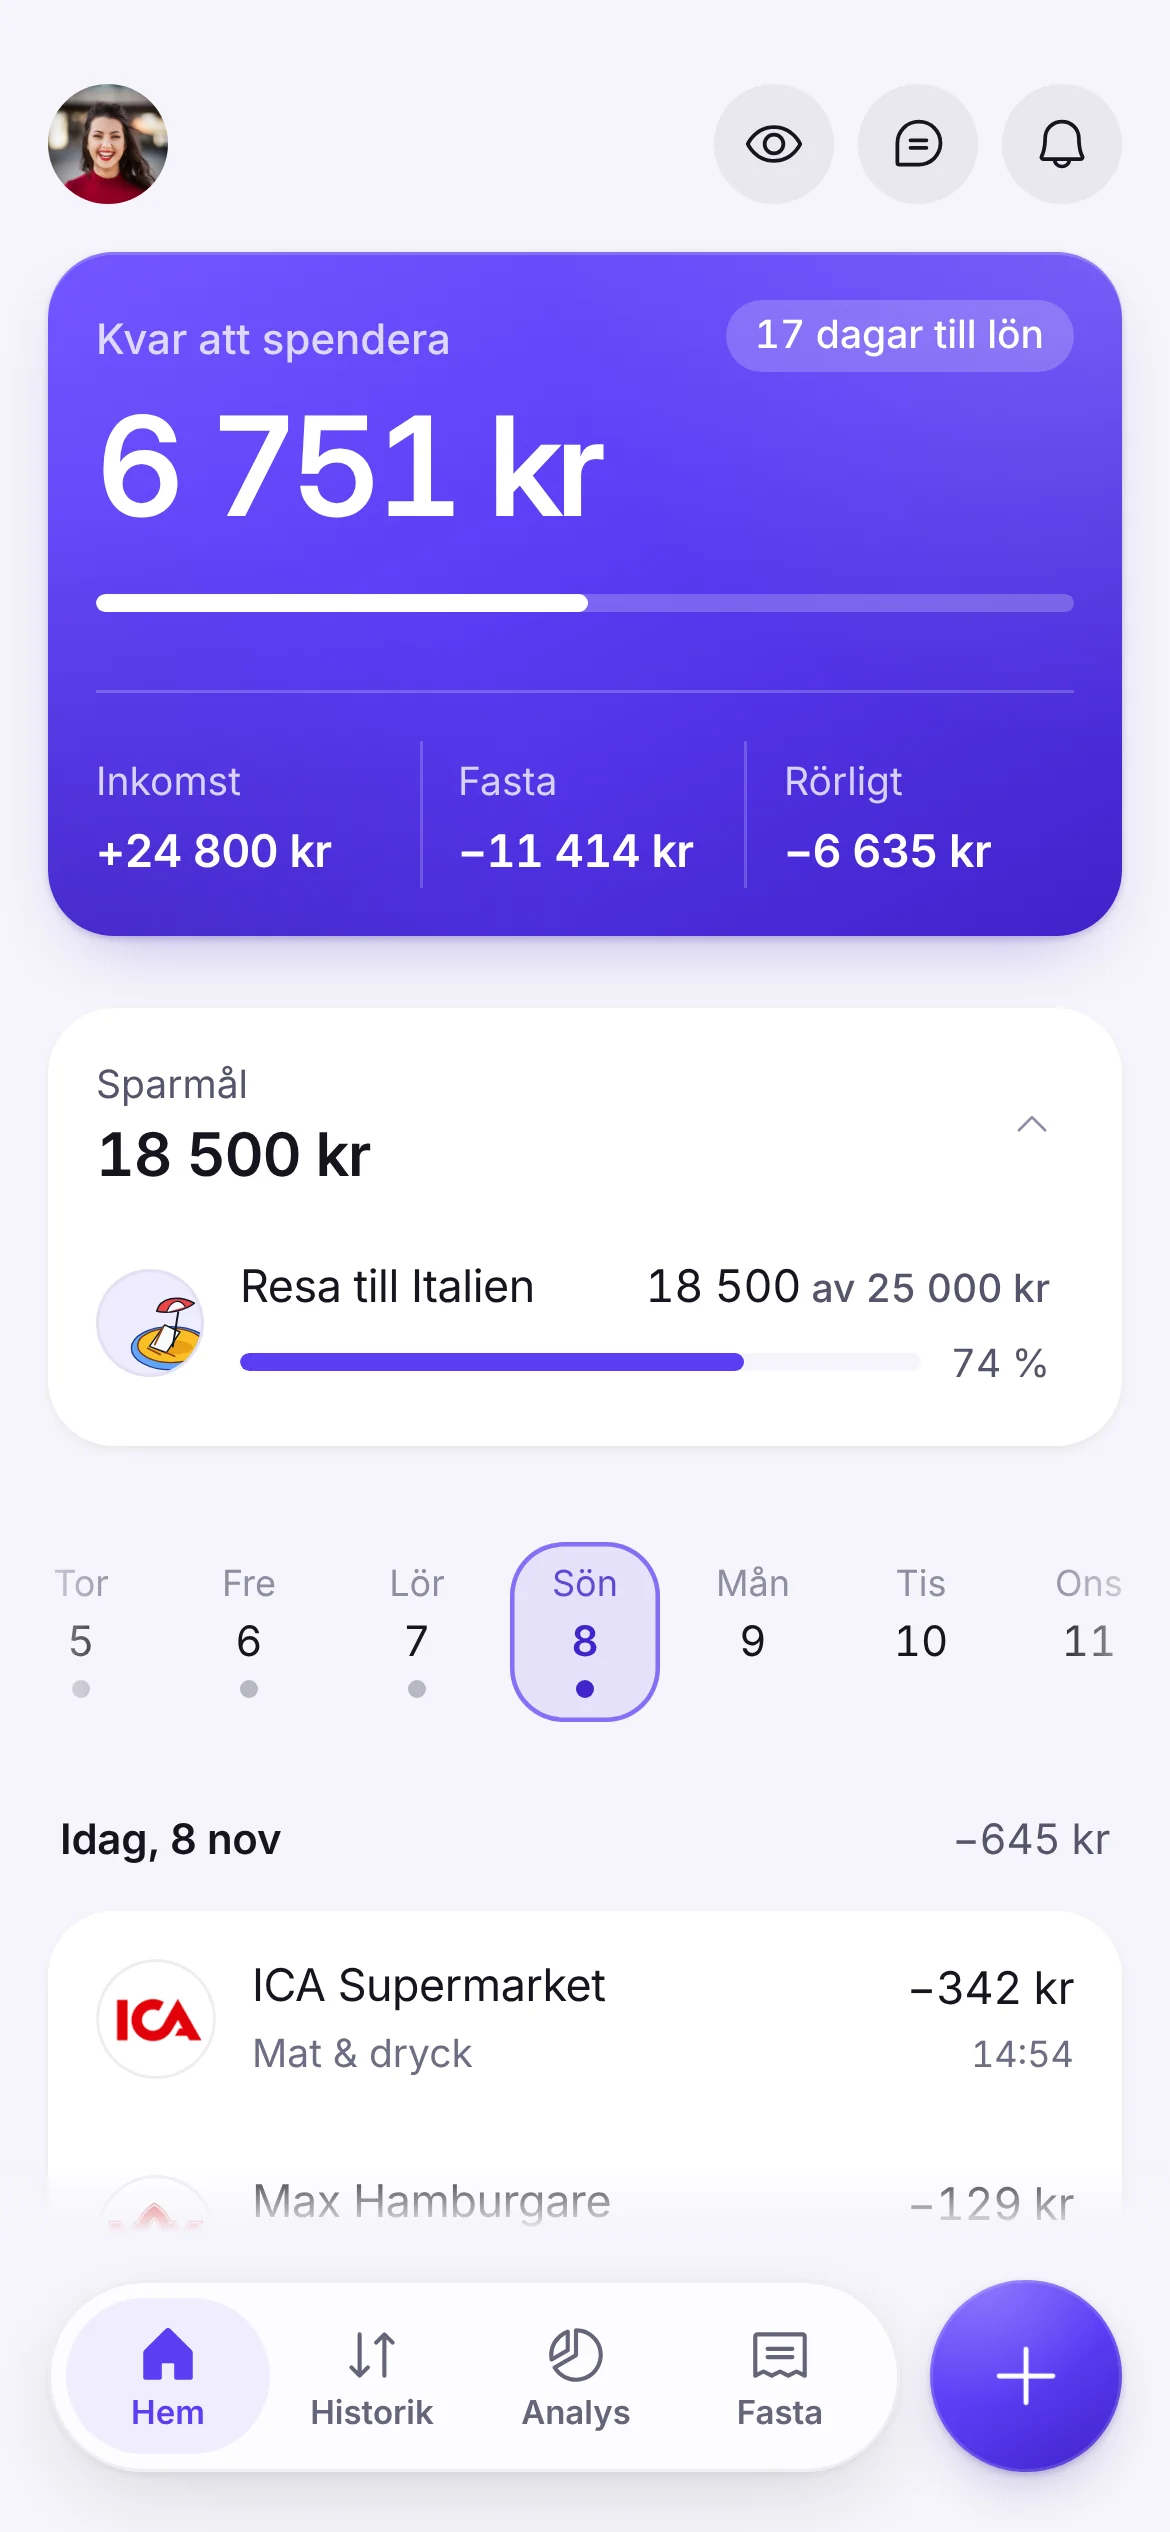
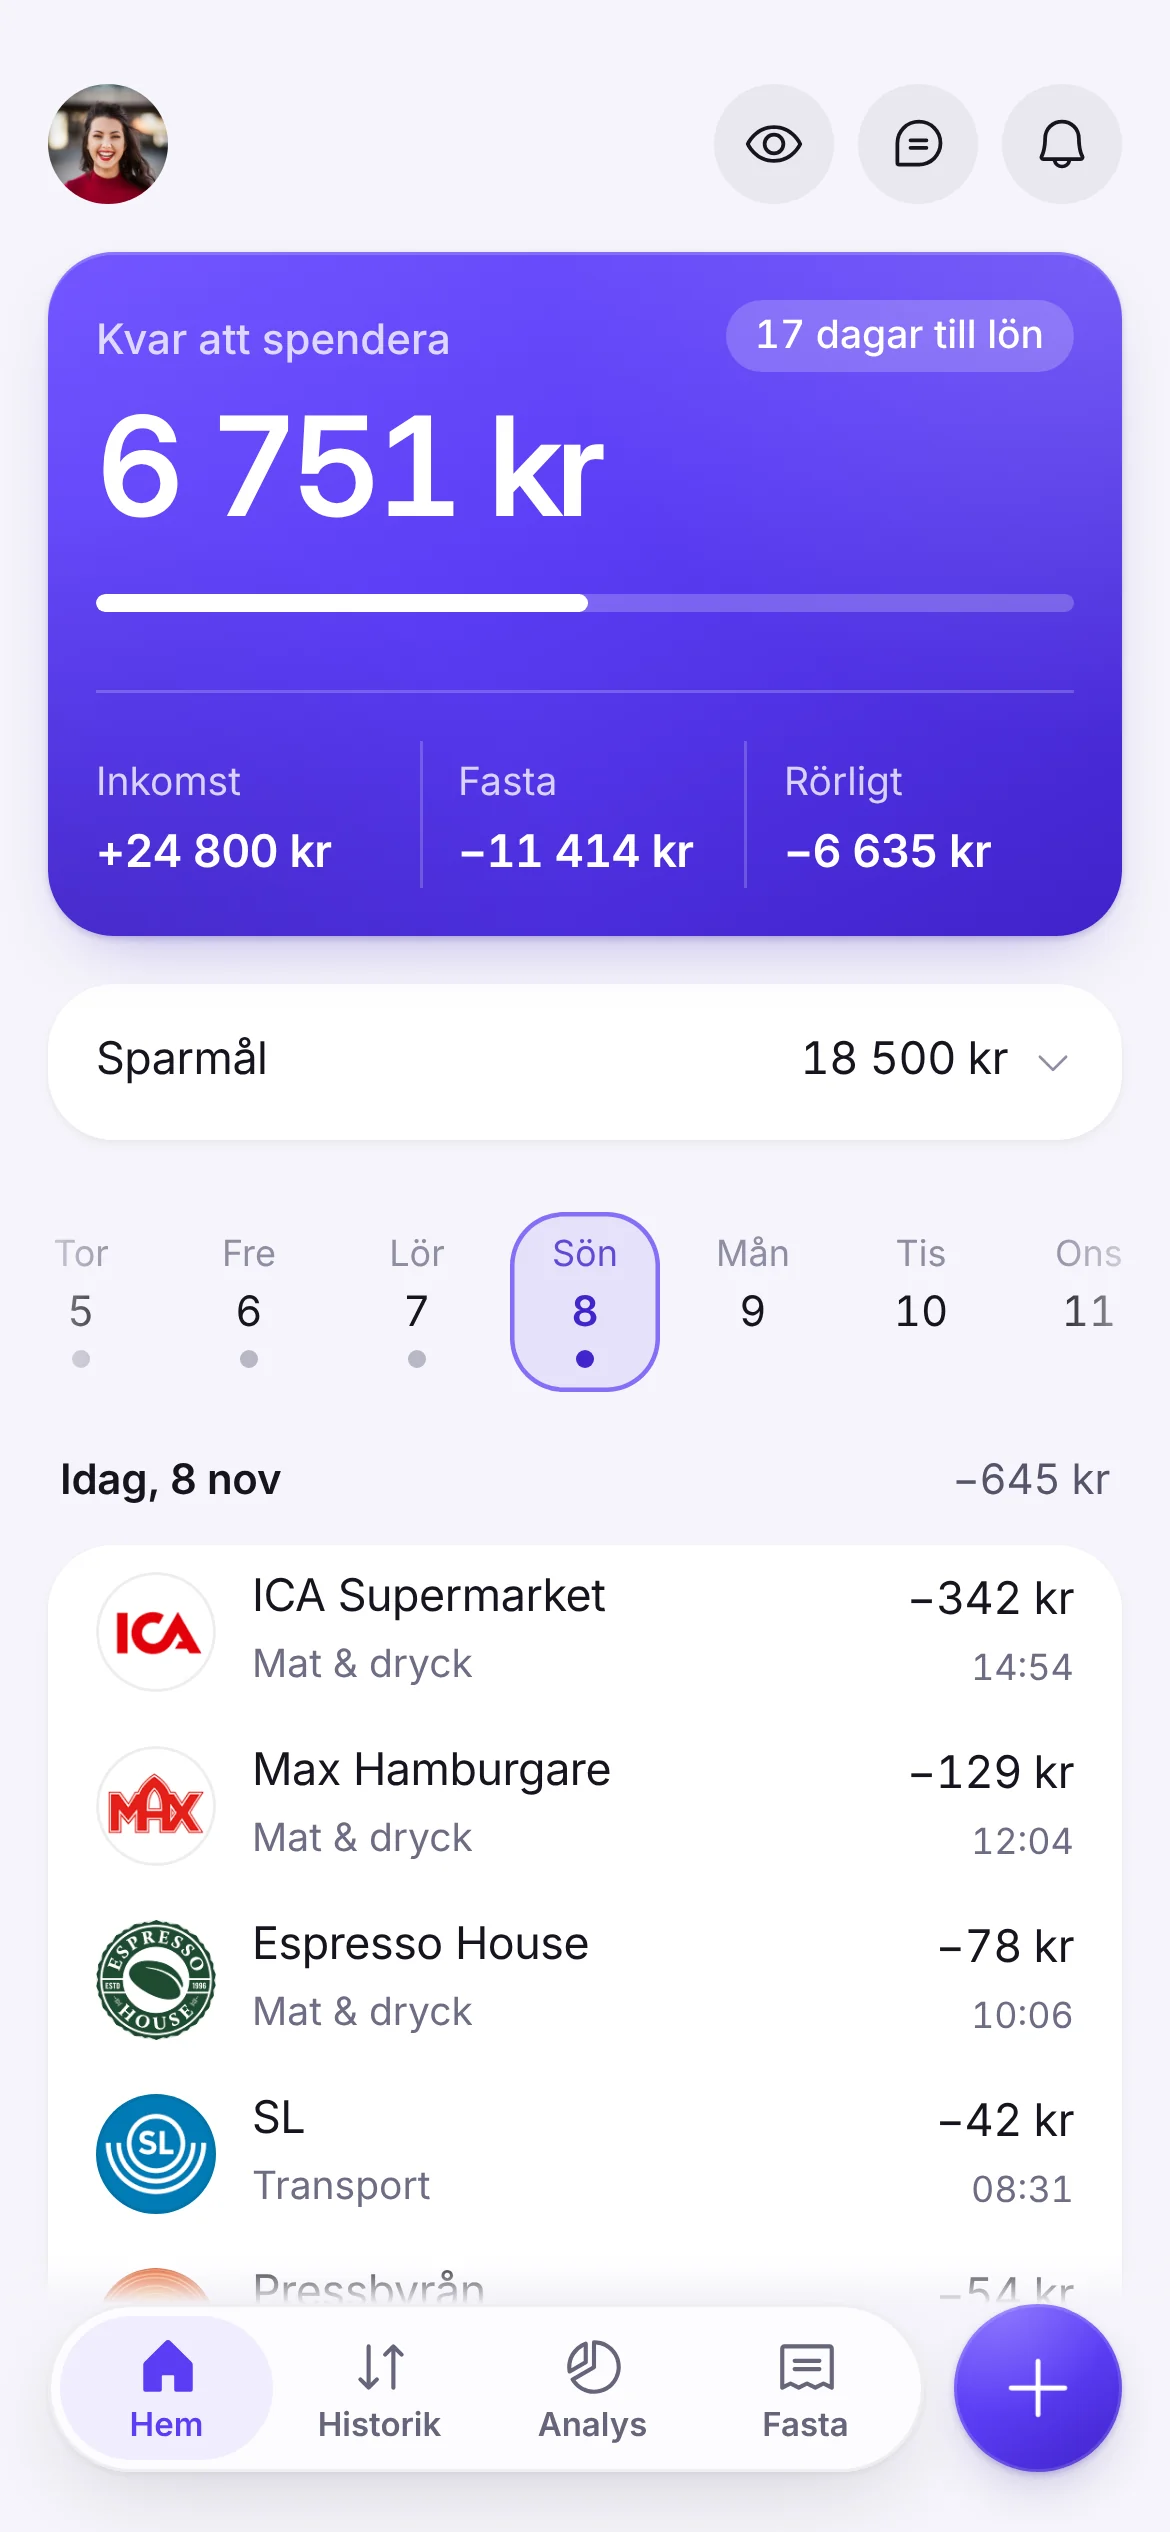
Nya startsidesbilder med kompakt layout (v=17)
Claude-Session: https://claude.ai/code/session_01CR7aiKdYh1B1e6r2HDSdML

diff --git a/src/components/WaitlistLanding.tsx b/src/components/WaitlistLanding.tsx
@@ -79,19 +79,19 @@ const PhoneFrame: React.FC<{
 
 const STEPS = [
   {
-    src: '/screens/ekonomi.webp?v=16',
+    src: '/screens/ekonomi.webp?v=17',
     alt: 'Dejz – inkomster och fasta utgifter',
     title: 'Lägg in lön och räkningar',
     text: 'Tar under två minuter. Dejz drar av räkningarna som är kvar före lön.',
   },
   {
-    src: '/screens/historik.webp?v=16',
+    src: '/screens/historik.webp?v=17',
     alt: 'Dejz – historik över köp',
     title: 'Logga köp på sekunder',
     text: 'Tryck på + och säg "Ica 342" – Dejz fyller i resten.',
   },
   {
-    src: '/screens/analys.webp?v=16',
+    src: '/screens/analys.webp?v=17',
     alt: 'Dejz – analys av utgifter per kategori',
     title: 'Se vart pengarna tar vägen',
     text: 'Per kategori, för varje löneperiod – inte per kalendermånad.',
@@ -260,10 +260,10 @@ export const WaitlistLanding: React.FC<WaitlistLandingProps> = ({
           <div className="relative mx-auto w-full max-w-[420px] h-[560px] sm:h-[620px]">
             <div className="absolute inset-x-6 top-16 bottom-6 rounded-full bg-[radial-gradient(closest-side,rgba(91,61,245,0.22),transparent)] blur-2xl" />
             <div className="hidden sm:block absolute right-0 top-12 w-[230px] rotate-[6deg]">
-              <PhoneFrame src="/screens/analys.webp?v=16" alt="" />
+              <PhoneFrame src="/screens/analys.webp?v=17" alt="" />
             </div>
             <div className="absolute left-1/2 -translate-x-1/2 sm:left-2 sm:translate-x-0 top-0 w-[255px] sm:w-[270px]">
-              <PhoneFrame src="/screens/home.webp?v=16" alt="Dejz hemskärm – kvar att spendera" eager />
+              <PhoneFrame src="/screens/home.webp?v=17" alt="Dejz hemskärm – kvar att spendera" eager />
             </div>
           </div>
         </section>
